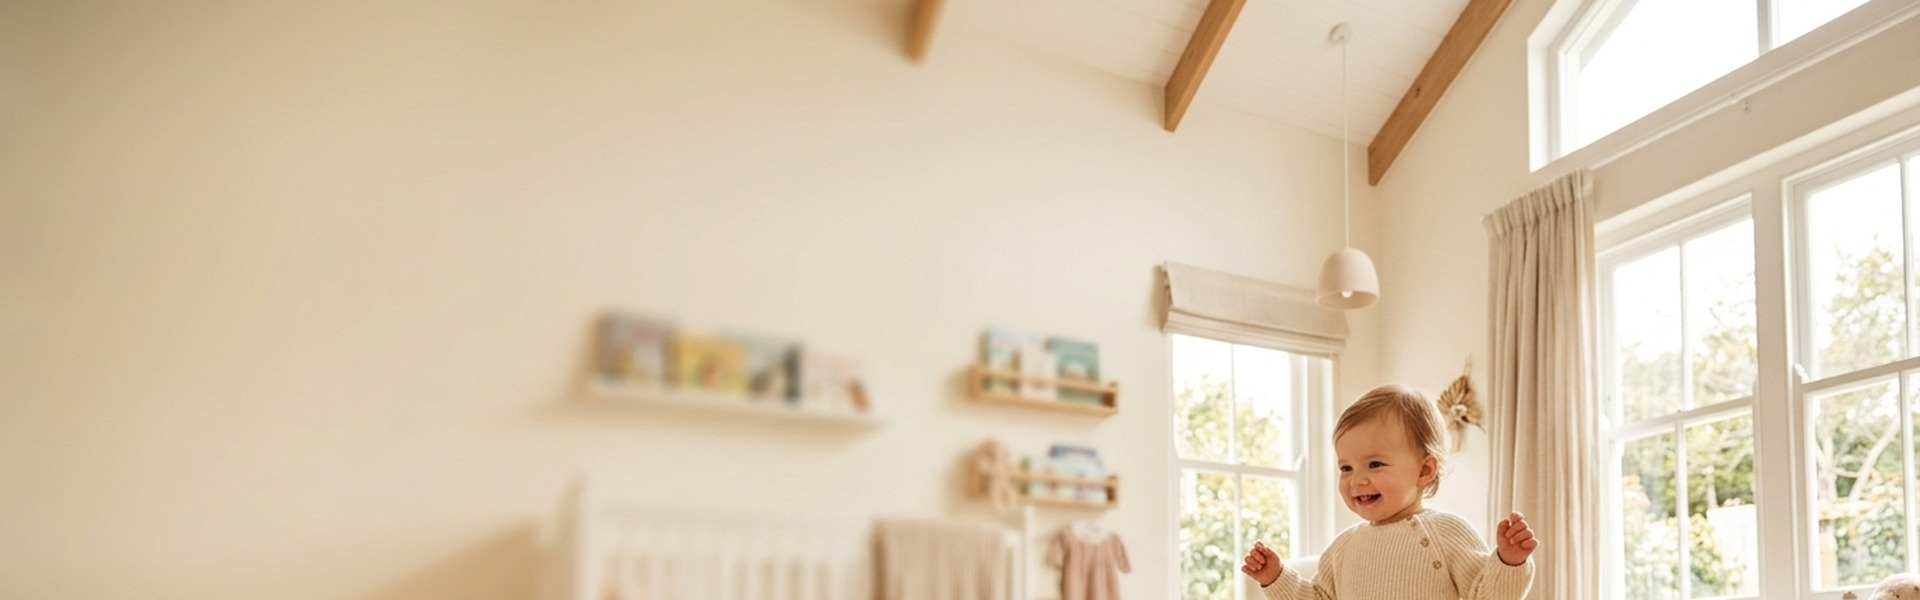
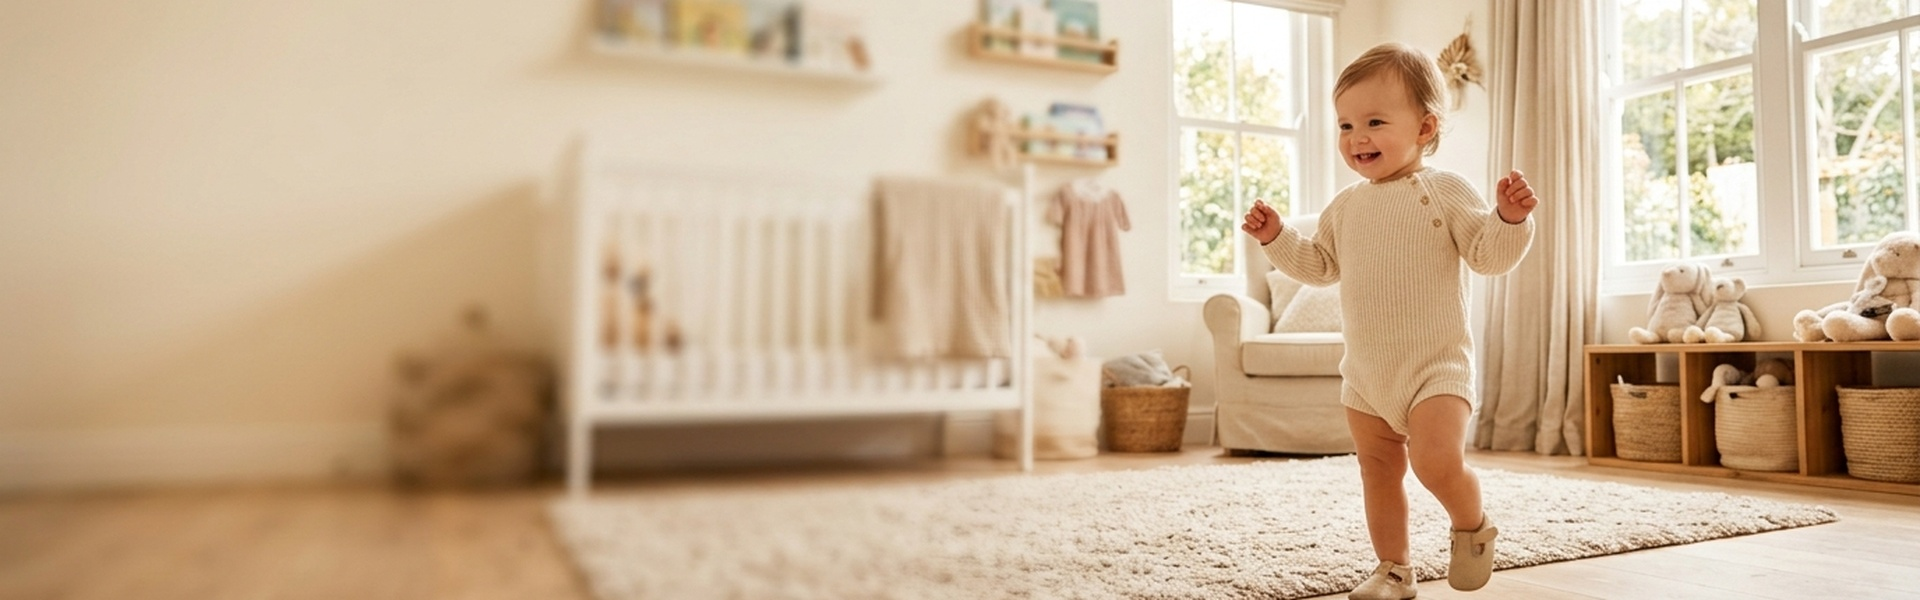
Recadrage vertical précis du bébé (tête, corps, jambes et pieds 100% visibles) et rééquilibrage de toutes les bannières

diff --git a/app.js b/app.js
@@ -407,7 +407,7 @@ const categoryBannerData = {
         title: "Toutes Nos Solutions",
         subtitle: "7 solutions naturelles à base d'eau de mer 100% naturelle de la Baie de Cancale pour toute la famille.",
         badge: "Gamme Complète • Physiologique & Hypertonique",
-        image: "cat-banner-all.jpg?v=20260922e",
+        image: "cat-banner-all.jpg?v=20260922f",
         themeColor: "#0077B6"
     },
     hygiene: {
@@ -415,7 +415,7 @@ const categoryBannerData = {
         title: "Gamme Hygiène du Nez",
         subtitle: "Lavez, hydratez et protégez vos fosses nasales tous les jours. Enrichi en oligo-éléments marins.",
         badge: "Physiologique • Dès la naissance & Adulte",
-        image: "cat-banner-hygiene.jpg?v=20260922e",
+        image: "cat-banner-hygiene.jpg?v=20260922f",
         themeColor: "#00B8E5"
     },
     rhume: {
@@ -423,7 +423,7 @@ const categoryBannerData = {
         title: "Gamme Rhume & Nez Bouché",
         subtitle: "Débouchez jusqu'à 6h et stoppez les symptômes du rhume grâce aux formules enrichies en Cuivre & Soufre.",
         badge: "Décongestion 6h • Cuivre & Soufre",
-        image: "cat-banner-rhume.jpg?v=20260922e",
+        image: "cat-banner-rhume.jpg?v=20260922f",
         themeColor: "#E05326"
     },
     allergie: {
@@ -431,7 +431,7 @@ const categoryBannerData = {
         title: "Gamme Nez Allergique",
         subtitle: "Élimine pollens, acariens et poils d'animaux. Formule enrichie en Manganèse protecteur et anti-allergique.",
         badge: "Protection Naturelle • Manganèse",
-        image: "cat-banner-allergie.jpg?v=20260922e",
+        image: "cat-banner-allergie.jpg?v=20260922f",
         themeColor: "#4E9B28"
     },
     bebe: {
@@ -439,7 +439,7 @@ const categoryBannerData = {
         title: "Gamme Stérimar™ Bébé",
         subtitle: "Spécialement formulé pour les tout-petits de 0 à 3 ans avec son embout sécurité pédiatrique breveté.",
         badge: "Dès la naissance • Embout sécurité pédiatrique",
-        image: "cat-banner-bebe.jpg?v=20260922e",
+        image: "cat-banner-bebe.jpg?v=20260922f",
         themeColor: "#3594D2"
     }
 };

diff --git a/boutique.html b/boutique.html
@@ -44,7 +44,7 @@
 
     <!-- Shop Header / Category Banner -->
     <section class="shop-header category-banner-section" id="shop-header">
-        <div class="category-banner-bg" id="cat-banner-bg" style="background-image: url('cat-banner-all.jpg?v=20260922e');"></div>
+        <div class="category-banner-bg" id="cat-banner-bg" style="background-image: url('cat-banner-all.jpg?v=20260922f');"></div>
         <div class="container category-banner-container">
             <div class="category-banner-content">
                 <span class="section-tag" id="cat-banner-tag">Collection Complète Stérimar™</span>
